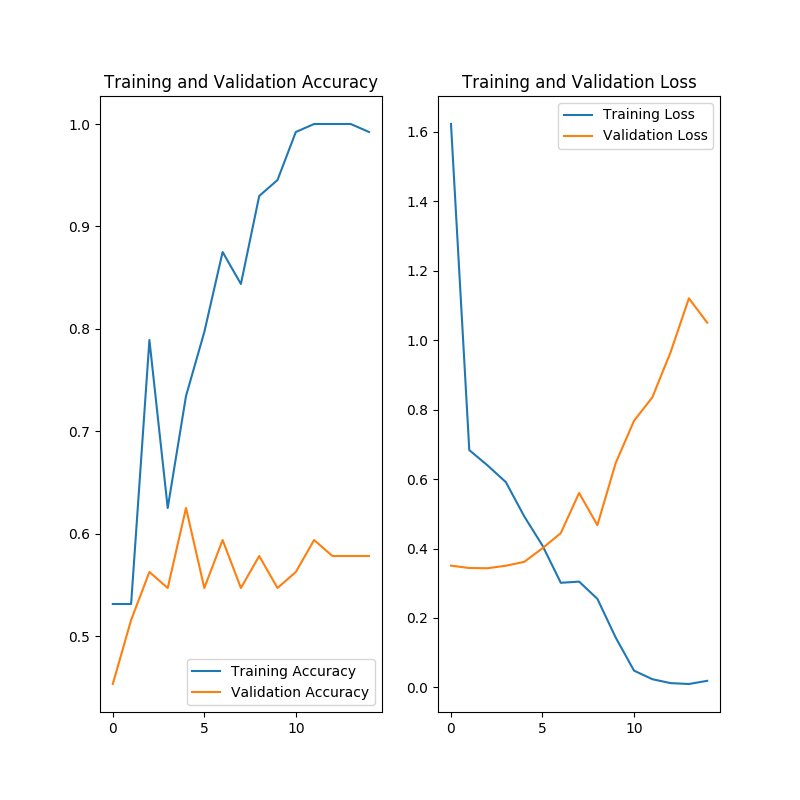
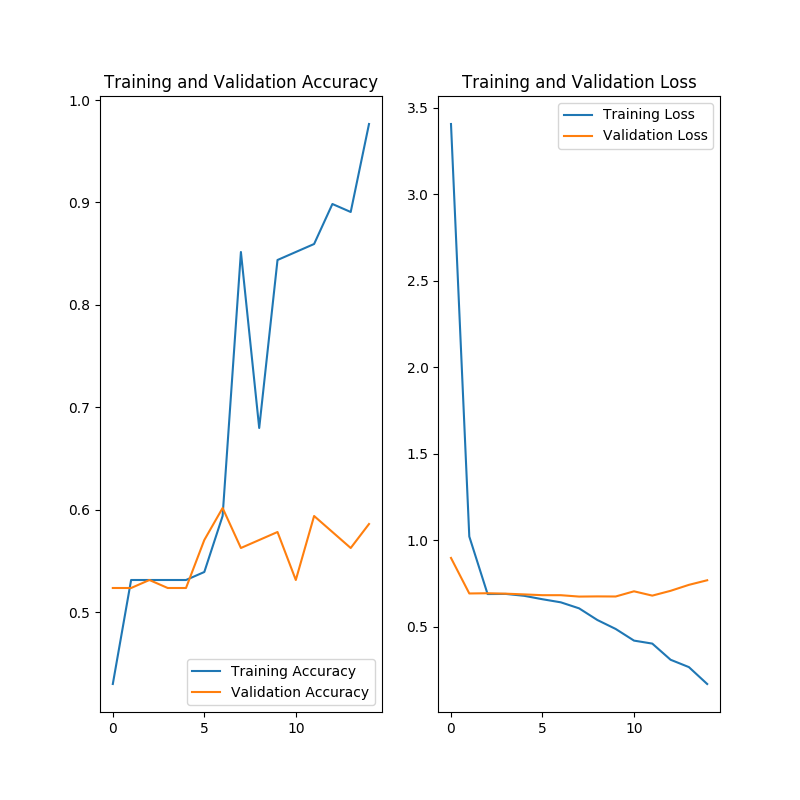
core: ImageLoader dataset

diff --git a/lib/ImageLoader.py b/lib/ImageLoader.py
@@ -1,5 +1,7 @@
 from __future__ import absolute_import, division, print_function, unicode_literals
 
+import os
+
 import tensorflow as tf
 from tensorflow.keras.preprocessing.image import ImageDataGenerator
 
@@ -8,50 +10,87 @@ import numpy as np
 AUTOTUNE = tf.data.experimental.AUTOTUNE
 import pathlib
 
-BATCH_SIZE = 128
-
 
 class ImageLoader:
     def __init__(self):
         self.class_names = None
         self.steps_per_epoch = None
         self.validation_steps = None
+        self.image_width = None
+        self.image_height = None
 
-    def generate_train_data(self, data_path, image_width, image_height, class_names):
-        data_generator = ImageDataGenerator(rescale=1. / 255)
+    def get_label(self, file_path):
+        # convert the path to a list of path components
+        parts = tf.strings.split(file_path, os.path.sep)
+        # The second to last is the class-directory
+        print(parts[-2])
+        return parts[-2] == self.class_names
 
-        return next(data_generator.flow_from_directory(batch_size=BATCH_SIZE,
-                                                       directory=data_path,
-                                                       shuffle=True,
-                                                       target_size=(image_height, image_width),
-                                                       classes=class_names,
-                                                       class_mode='sparse'))
+    def decode_img(self, img):
+        # convert the compressed string to a 3D uint8 tensor
+        img = tf.image.decode_jpeg(img, channels=3)
+        # Use `convert_image_dtype` to convert to floats in the [0,1] range.
+        img = tf.image.convert_image_dtype(img, tf.float32)
+        # resize the image to the desired size.
+        return tf.image.resize(img, [self.image_width, self.image_height])
 
-    def generate_validation_data(self, data_path, image_width, image_height, class_names):
-        data_generator = ImageDataGenerator(rescale=1. / 255)
+    def process_path(self, file_path):
+        label = self.get_label(file_path)
+        # load the raw data from the file as a string
+        img = tf.io.read_file(file_path)
+        img = self.decode_img(img)
+        return img, label
 
-        return next(data_generator.flow_from_directory(batch_size=BATCH_SIZE,
-                                                       directory=data_path,
-                                                       target_size=(image_height, image_width),
-                                                       classes=class_names,
-                                                       class_mode='sparse'))
+    def generate_training_dataset(self, path, batch_size, shuffle_buffer_size=1000):
+        list_ds = tf.data.Dataset.list_files(str(path / '*/*'))
+        ds = list_ds.map(self.process_path, num_parallel_calls=AUTOTUNE)
 
-    def load_from_url(self, url, dir_name, image_width, image_height):
+        ds = ds.shuffle(buffer_size=shuffle_buffer_size)
+
+        # Repeat forever
+        ds = ds.repeat()
+
+        ds = ds.batch(batch_size)
+
+        # `prefetch` lets the dataset fetch batches in the background while the model
+        # is training.
+        ds = ds.prefetch(buffer_size=AUTOTUNE)
+
+        return next(iter(ds))
+
+    def generate_validation_dataset(self, path, batch_size, shuffle_buffer_size=1000):
+        list_ds = tf.data.Dataset.list_files(str(path / '*/*'))
+        ds = list_ds.map(self.process_path, num_parallel_calls=AUTOTUNE)
+
+        # Repeat forever
+        ds = ds.repeat()
+
+        ds = ds.batch(batch_size)
+
+        return next(iter(ds))
+
+    def load_from_url(self, url, dir_name, image_width, image_height, batch_size):
         data_dir = tf.keras.utils.get_file(
             origin=url,
             fname=dir_name, untar=True)
         data_dir = pathlib.Path(data_dir)
         train_dir = data_dir.joinpath('train')
         validation_dir = data_dir.joinpath('validation')
+        self.image_width = image_width
+        self.image_height = image_height
         self.class_names = list(
             [item.name for item in train_dir.glob('*') if item.name != "LICENSE.txt" and item.name != ".DS_Store"])
 
-        train_image_count = len(list(train_dir.glob('*/*.jpg')))
-        self.steps_per_epoch = int(np.ceil(train_image_count / BATCH_SIZE))
-
-        val_image_count = len(list(validation_dir.glob('*/*.jpg')))
-        self.validation_steps = int(np.ceil(val_image_count / BATCH_SIZE))
-
-        return self.generate_train_data(train_dir, image_width, image_height,
-                                        self.class_names), self.generate_validation_data(validation_dir, image_width,
-                                                                                         image_height, self.class_names)
+        return self.generate_training_dataset(train_dir, batch_size), self.generate_validation_dataset(validation_dir, batch_size)
+        # train_image_count = len(list(train_dir.glob('*/*.jpg')))
+        # self.steps_per_epoch = int(np.floor(train_image_count / batch_size))
+        #
+        # val_image_count = len(list(validation_dir.glob('*/*.jpg')))
+        # self.validation_steps = int(np.floor(val_image_count / batch_size))
+        #
+        # return self.generate_train_data(train_dir, image_width, image_height,
+        #                                 self.class_names, batch_size), self.generate_validation_data(validation_dir,
+        #                                                                                              image_width,
+        #                                                                                              image_height,
+        #                                                                                              self.class_names,
+        #                                                                                              batch_size)

diff --git a/lib/Model.py b/lib/Model.py
@@ -35,17 +35,17 @@ class Model:
 
     def compile(self):
         self.model.compile(optimizer='adam',
-                           loss=tf.keras.losses.SparseCategoricalCrossentropy(from_logits=True),
+                           loss=tf.keras.losses.CategoricalCrossentropy(from_logits=True),
                            metrics=['accuracy'])
 
-    def train(self, train_images, train_labels, steps_per_epoch, epochs, val_images, val_labels, validation_steps):
+    def train(self, train_images, train_labels, steps_per_epoch, epochs, val_images, val_labels, validation_steps,
+              batch_size):
         return self.model.fit(
             train_images,
             train_labels,
-            steps_per_epoch=steps_per_epoch,
-            validation_steps=validation_steps,
             epochs=epochs,
             validation_data=(val_images, val_labels),
+            validation_steps=validation_steps
         )
 
     def save(self, name):

diff --git a/main.py b/main.py
@@ -5,6 +5,7 @@ from lib.Model import Model
 from lib.Display import Display
 import numpy as np
 
+BATCH_SIZE = 128
 EPOCHS = 15
 IMG_HEIGHT = 150
 IMG_WIDTH = 150
@@ -15,8 +16,10 @@ if __name__ == '__main__':
         'https://storage.googleapis.com/mledu-datasets/cats_and_dogs_filtered.zip',
         'cats_and_dogs_filtered',
         IMG_WIDTH,
-        IMG_HEIGHT
+        IMG_HEIGHT,
+        BATCH_SIZE
     )
+    print(train_labels)
     model = Model()
 
     model.load_previous_model('main.model')
@@ -31,7 +34,8 @@ if __name__ == '__main__':
             EPOCHS,
             val_images,
             val_labels,
-            imageHandler.validation_steps
+            imageHandler.validation_steps,
+            BATCH_SIZE
         )
         model.save('main.model')
         Display.print_graphic(
